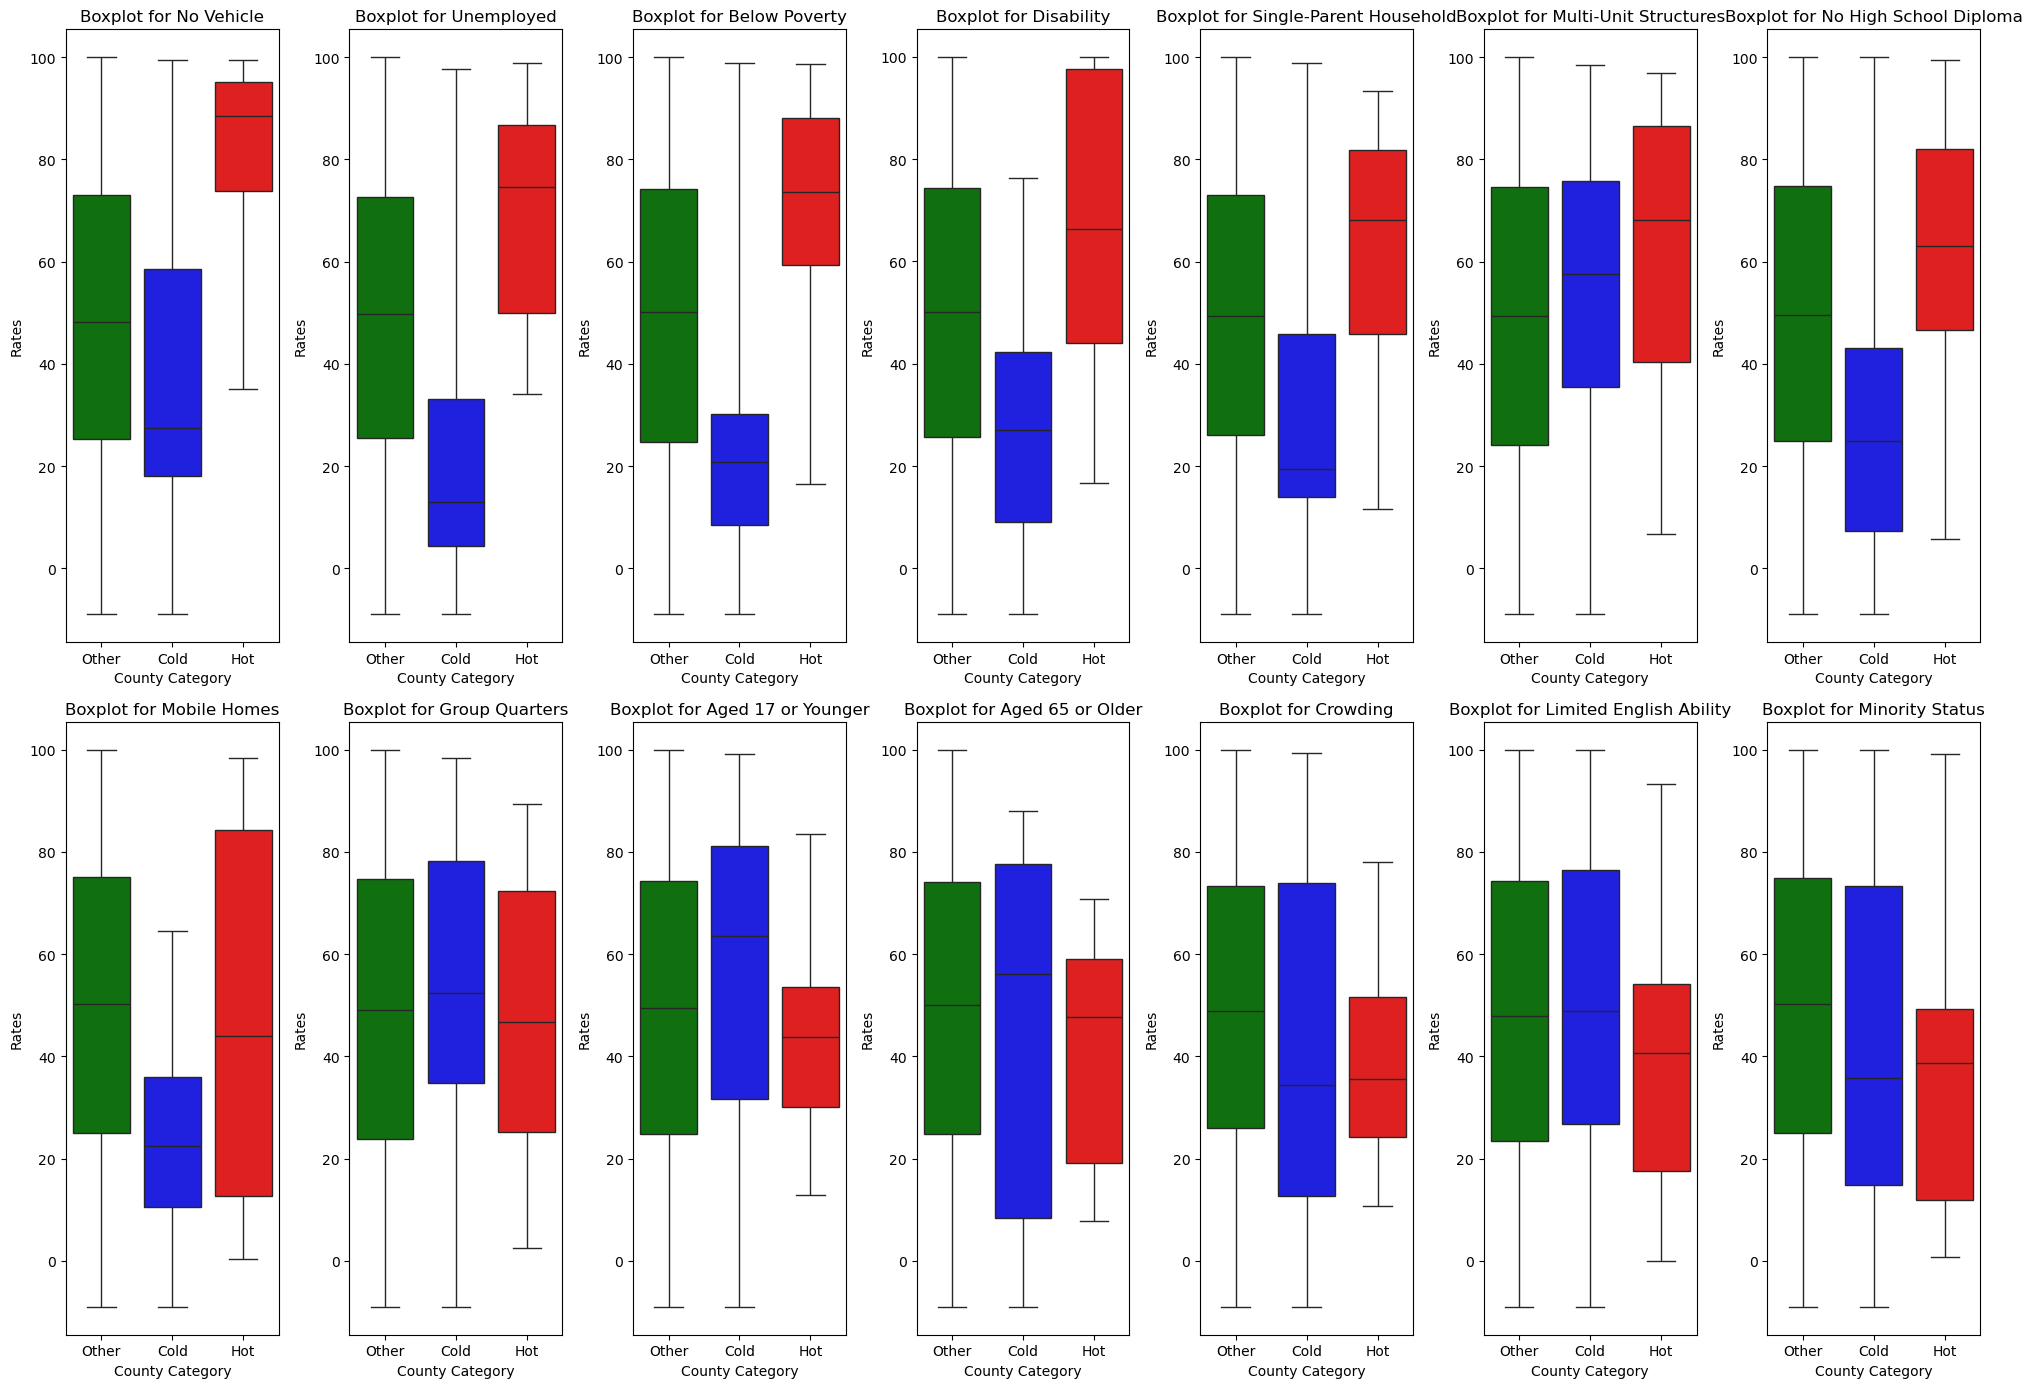
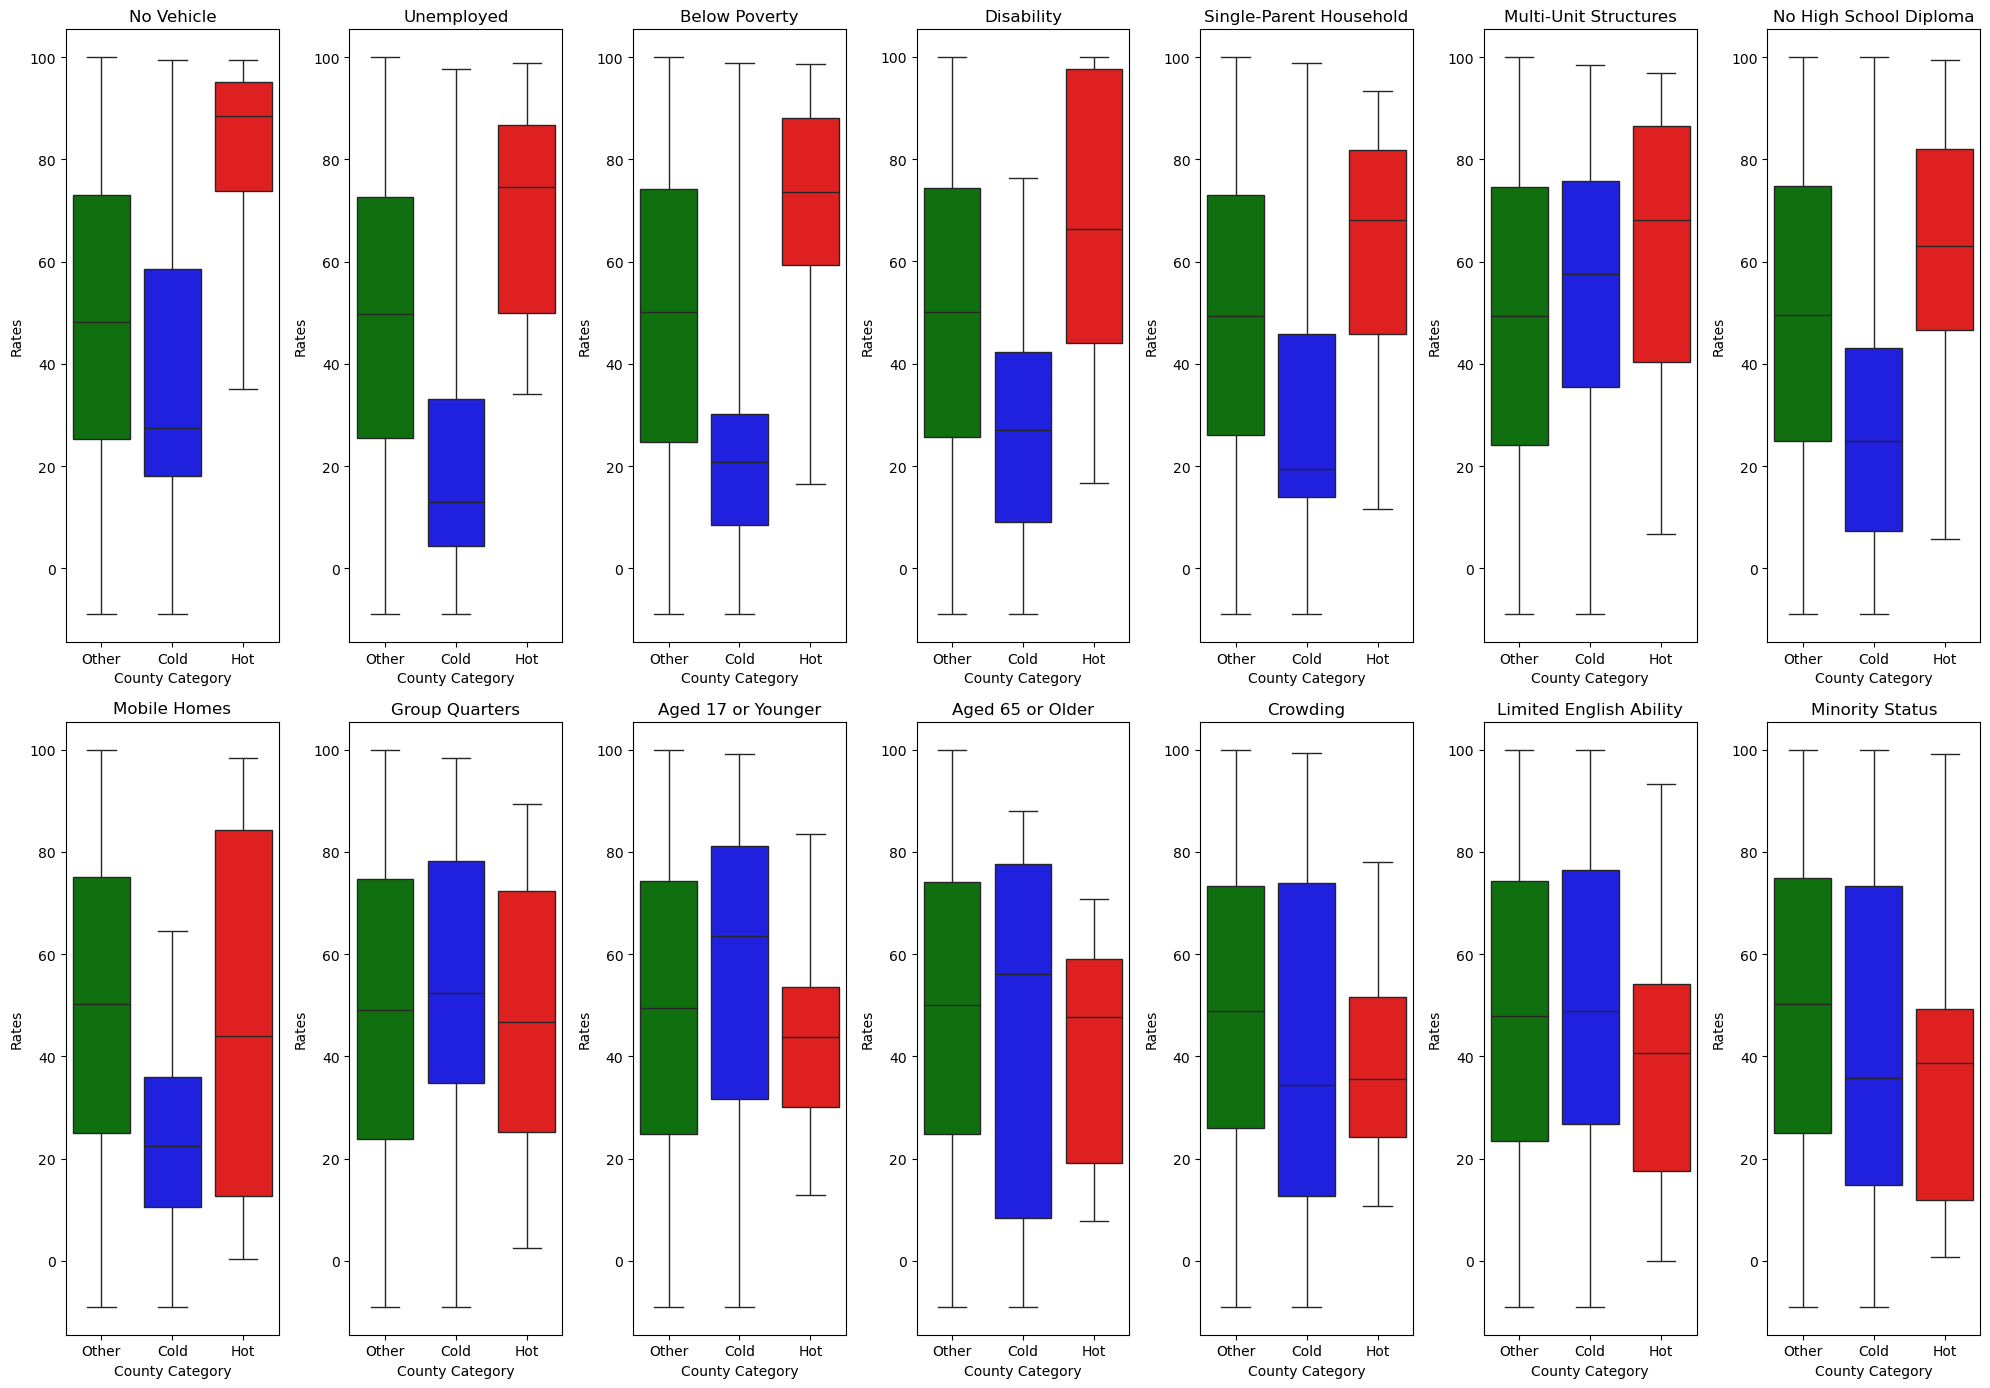
update

diff --git a/Anomalies/boxplots.py b/Anomalies/boxplots.py
@@ -49,45 +49,40 @@ def boxplots(data_df, year):
     for feature in DATA:
         if feature != 'Mortality':
             hot_means[feature] = data_df.loc[data_df['County Category'] == 'Hot', f'{year} {feature} Rates'].mean()
-            # .mean() calculates the mean of all the values in that column for the filtered rows
 
-    # Sort features based on 'Hot' means
-    sorted_features = sorted(hot_means, key=hot_means.get, reverse=True)
-
-    # Define the colors of the boxplot categories
-    category_colors = {'Hot': 'red', 'Cold': 'blue', 'Other': 'green'}
-
-    # Determine the number of rows and columns needed for subplots
-    num_features = len(sorted_features)
-    num_cols = 7
-    num_rows = (num_features + num_cols - 1) // num_cols
-
-    # Initialize subplots
-    fig, axs = plt.subplots(num_rows, num_cols, figsize=(20, num_rows * 7))
-
-    # Flatten the axes array for easy indexing
-    axs = axs.flatten()
-
-    # Create a boxplot for each feature
-    for idx, feature in enumerate(sorted_features):
-        sns.boxplot(x='County Category', y=f'{year} {feature} Rates', data=data_df, 
-                    hue='County Category', palette=category_colors, ax=axs[idx],
-                    whis=[0, 100], dodge=False)
-        axs[idx].set_title(f'Boxplot for {feature}')
-        axs[idx].set_ylabel(f'Rates')
-
-    # Hide any extra subplots if the number of features is not a multiple of num_cols
-    for idx in range(num_features, len(axs)):
-        axs[idx].axis('off')
-
-    plt.tight_layout()
-    plt.savefig(f'Anomalies/Boxplots/{year}_boxplots.png', bbox_inches='tight')
-    plt.close()
+    return hot_means
 
 def main():
+    means_by_year = {}
+    data_df = construct_data_df()
+
     for year in range(2014, 2021):
-        data_df = construct_data_df()
-        boxplots(data_df, year)
+        hot_means = boxplots(data_df, year)
+        means_by_year[year] = hot_means
+
+    # Convert the collected means to a DataFrame
+    means_df = pd.DataFrame(means_by_year)
+
+    # Calculate the average mean across all years for each variable
+    means_df['Average'] = means_df.mean(axis=1)
+
+    # Sort the DataFrame by the average mean
+    means_df = means_df.sort_values(by='Average', ascending=True)
+
+    # Use the 'Set1' colormap, which has distinct colors
+    colors = plt.cm.tab10.colors[:len(means_df.columns)-1]  # Select colors for the years
+    colors = list(colors) + ['black']  # Add black for the 'Average' column
+
+    # Plot the means over the years
+    ax = means_df.plot(kind='barh', figsize=(12, 8), legend=True, color=colors)
+
+    plt.title('Mean Values of SVI Variable Rates in Hot Counties Over the Years')
+    plt.xlabel('Mean Value')
+    plt.ylabel('Variable')
+    plt.legend(title='Year', bbox_to_anchor=(1, 0), loc='lower right')
+    plt.tight_layout()
+    plt.savefig('Anomalies/Boxplots/mean_values_plot.png', bbox_inches='tight')
+    plt.close()
 
 if __name__ == "__main__":
     main()
